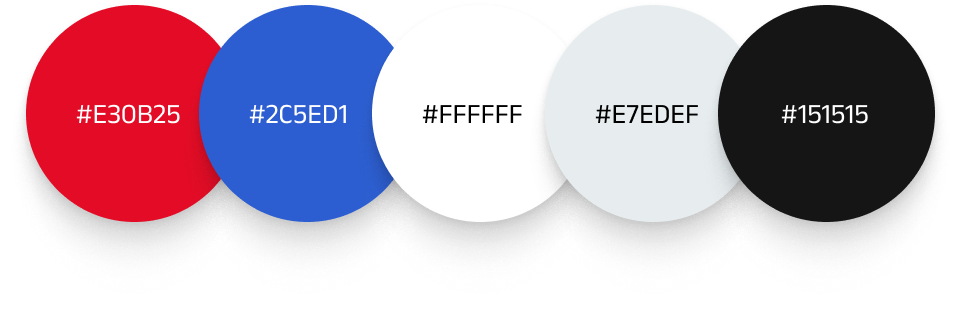
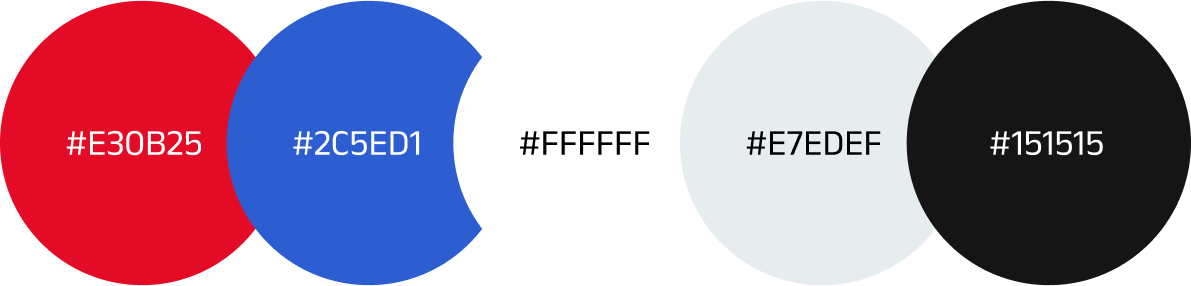
commit

diff --git a/wragby.html b/wragby.html
@@ -50,12 +50,13 @@
 
 <body data-barba="wrapper" data-header-sticky="true" data-menu-style="overlay" data-page-loader="true">
 
-    <div data-duration="5" class="en-page-loader" data-layout="dark">
+    <!-- <div data-duration="5" class="en-page-loader" data-layout="dark">
         <span class="apl-background"></span>
 
         <div class="apl-count"></div>
+    </div> -->
 
-    </div>
+
     <div class="site-header">
         <div class="header-wrapper">
 
@@ -236,9 +237,9 @@
                     </div>
                 </div>
 
-                <div id="poster" class="blocco">
+                <div id="poster" class="blocco mockup__pt">
                     <div class="left_block margin__bottom grid_intern" data-scroll>
-                        <figure>
+                        <figure class="wrag__mockup">
                             <img alt="" src="/assets/resources/img/wragby/mockup1.png">
                         </figure>
                     </div>
@@ -258,47 +259,56 @@
                     </div>
                 </div> -->
 
-                <div id="portf" class="grid_intern port__f">
-                    <div class="margin-r-46" data-scroll>
-                        <div class="text_anim">
-                            <h2 data-scroll-target="#portf">
-                                <span>Colour </span>
-                            </h2>
-                        </div>
-                        <div class="text_anim spline_p">
-                            <p>
-                                <span>
-                                    Provisioning and deprovisioning users within Google Workspace can be
-                                    time-consuming
-                                    and
-                                    costly. Let Patronum fully automate all the administrator and user tasks
-                                    to ensure
-                                    an
-                                    effective and secure process.
-                                </span>
-                            </p>
+
+                <div class="wrag__cont">
+
+                    <div id="portf" class="grid_intern port__f">
+                        <div class="margin-r-46" data-scroll>
+                            <div class="text_anim">
+                                <h2 data-scroll-target="#portf">
+                                    <span>Colour </span>
+                                </h2>
+                            </div>
+                            <div class="text_anim spline_p">
+                                <p>
+                                    <span>
+                                        Provisioning and deprovisioning users within Google Workspace can be
+                                        time-consuming
+                                        and
+                                        costly. Let Patronum fully automate all the administrator and user tasks
+                                        to ensure
+                                        an
+                                        effective and secure process.
+                                    </span>
+                                </p>
+                            </div>
                         </div>
                     </div>
-                </div>
 
 
-                <div id="colorc" class="wrag__color">
-                    <div class="color-div flex">
-                        <div class="color__section">
-                            <div data-scroll-target="#colorc" data-scroll data-scroll-speed="2">
-                                <img class="gcm__color" src="/assets/resources/img/wragby/color.png" alt="">
+                    <div id="colorc" class="wrag__color">
+                        <div class="color-div flex">
+                            <div class="color__section wrag__color__section">
+                                <div data-scroll-target="#colorc" data-scroll data-scroll-speed="2">
+                                    <img class="gcm__color" src="/assets/resources/img/wragby/color.png" alt="">
+                                </div>
+
+                            </div>
+                            <div class="right-d wrag__phn">
+                                <img data-scroll-target="#colorc" data-scroll data-scroll-speed="2" class="phone__img"
+                                    src="/assets/resources/img/wragby/phone.png" alt="">
                             </div>
 
                         </div>
-                        <div class="right-d wrag__phn">
-                            <img data-scroll-target="#colorc" data-scroll data-scroll-speed="2" class="phone__img"
-                                src="/assets/resources/img/wragby/phone.png" alt="">
-                        </div>
+
 
                     </div>
-
-
                 </div>
+
+
+
+
+
                 <div id="portf" class="grid_intern wrag__pt">
                     <div class="margin-r-46" data-scroll>
                         <div class="text_anim">
@@ -327,6 +337,14 @@
                     </div>
                 </div>
 
+                <div id="poster" class="blocco">
+                    <div class="left_block grid_intern" data-scroll>
+                        <figure>
+                            <img alt="" class="wragby__typo-2" src="/assets/resources/img/wragby/typo1.png">
+                        </figure>
+                    </div>
+                </div>
+
 
 
                 <div class="module wrag__module padding_on_top_velocities m-p wragby__mp" style="background: #F1F1F1;"
@@ -340,7 +358,7 @@
                                 </picture>
                             </div>
 
-                            <div class="col-2" data-scroll data-scroll-direction="vertical" data-scroll-speed="2">
+                            <div class="col-2" data-scroll data-scroll-direction="vertical" data-scroll-speed="4">
                                 <picture class="img-fluid">
                                     <img class=" lazyloaded" src="/assets/resources/img/wragby/phone2.png">
                                 </picture>
@@ -358,15 +376,15 @@
                     </div>
                 </div>
 
-                <div class="image-section" data-scroll data-humcolor="#000" style="background-color: #2C5ED1;">
+                <div class="image-section" data-scroll data-humcolor="#000" style="background-color: #E30B25;">
                     <div class="reveal img-right">
-                        <img src="/assets/resources/img/wragby/img1.png">
+                        <img class="wrag__image" src="/assets/resources/img/wragby/img1.png">
                     </div>
                     <div class="reveal img-left">
-                        <img src="/assets/resources/img/wragby/img2.png">
+                        <img class="wrag__image" src="/assets/resources/img/wragby/img2.png">
                     </div>
                     <div class="reveal img-right">
-                        <img src="/assets/resources/img/wragby/img3.png">
+                        <img class="wrag__image" src="/assets/resources/img/wragby/img3.png">
                     </div>
                     <div class="reveal img-left">
                         <img src="/assets/resources/img/wragby/img4.png">

diff --git a/assets/resources/styles/less/modules/_about.less b/assets/resources/styles/less/modules/_about.less
@@ -5814,20 +5814,47 @@
 }
 
 .wragby__typo {
+  display: none;
   width: 50% !important;
   padding-left: 120px;
+}
+
+.wragby__typo-2 {
+  width: 90% !important;
+  padding-left: 120px;
+}
+
+.phone__img {
+  display: none;
 }
 
 .wragby__mp {
   margin-top: 10%;
 }
 
+#colorc .wrag__color__section {
+  width: 80%;
+}
+
 .gcm__color {
-  padding: 0 50px;
+  width: 80%;
+  padding-left: 120px;
 }
 
 #colorc .wrag__phn {
   width: 40%;
+}
+
+.image-section .wrag__image {
+  margin-bottom: 10%;
+}
+
+.wrag__pt {
+  padding: 0 0 100px 0px;
+}
+
+.wrag__color {
+  min-height: calc(var(--vh, 1vh) * 35) !important;
 }
 
 @media screen and (max-width: 1024px) {
@@ -5866,6 +5893,15 @@
 }
 
 @media screen and (max-width: 475px) {
+  .wragby__typo {
+    display: block;
+  }
+  .wragby__typo-2 {
+    display: none;
+  }
+  .phone__img {
+    display: block;
+  }
   .gcm__color {
     padding: 0px;
     width: 300px;
@@ -5882,9 +5918,6 @@
   #colorc .wrag__phn {
     margin: 0 auto;
   }
-  // .phone__img {
-  //   padding: 80px;
-  // }
   .wrag__pt {
     padding: 0 0 75px 0 !important;
   }
@@ -5893,6 +5926,12 @@
   }
   .wrag__module {
     padding: 35% 0 !important;
+  }
+  .blocco div.left_block .wrag__mockup {
+    transform: scale(1.5);
+  }
+  .mockup__pt {
+    margin-top: 100px;
   }
 }
 

diff --git a/assets/resources/styles/css/page.css b/assets/resources/styles/css/page.css
@@ -9649,17 +9649,38 @@ header {
   margin-bottom: 10%;
 }
 .wragby__typo {
+  display: none;
   width: 50% !important;
   padding-left: 120px;
+}
+.wragby__typo-2 {
+  width: 90% !important;
+  padding-left: 120px;
+}
+.phone__img {
+  display: none;
 }
 .wragby__mp {
   margin-top: 10%;
 }
+#colorc .wrag__color__section {
+  width: 80%;
+}
 .gcm__color {
-  padding: 0 50px;
+  width: 80%;
+  padding-left: 120px;
 }
 #colorc .wrag__phn {
   width: 40%;
+}
+.image-section .wrag__image {
+  margin-bottom: 10%;
+}
+.wrag__pt {
+  padding: 0 0 100px 0px;
+}
+.wrag__color {
+  min-height: calc(var(--vh, 1vh) * 35) !important;
 }
 @media screen and (max-width: 1024px) {
   .wragby .module--header__bg {
@@ -9696,6 +9717,15 @@ header {
   }
 }
 @media screen and (max-width: 475px) {
+  .wragby__typo {
+    display: block;
+  }
+  .wragby__typo-2 {
+    display: none;
+  }
+  .phone__img {
+    display: block;
+  }
   .gcm__color {
     padding: 0px;
     width: 300px;
@@ -9719,6 +9749,13 @@ header {
   }
   .wrag__module {
     padding: 35% 0 !important;
+  }
+  .blocco div.left_block .wrag__mockup {
+    -webkit-transform: scale(1.5);
+            transform: scale(1.5);
+  }
+  .mockup__pt {
+    margin-top: 100px;
   }
 }
 @media screen and (max-width: 375px) {
